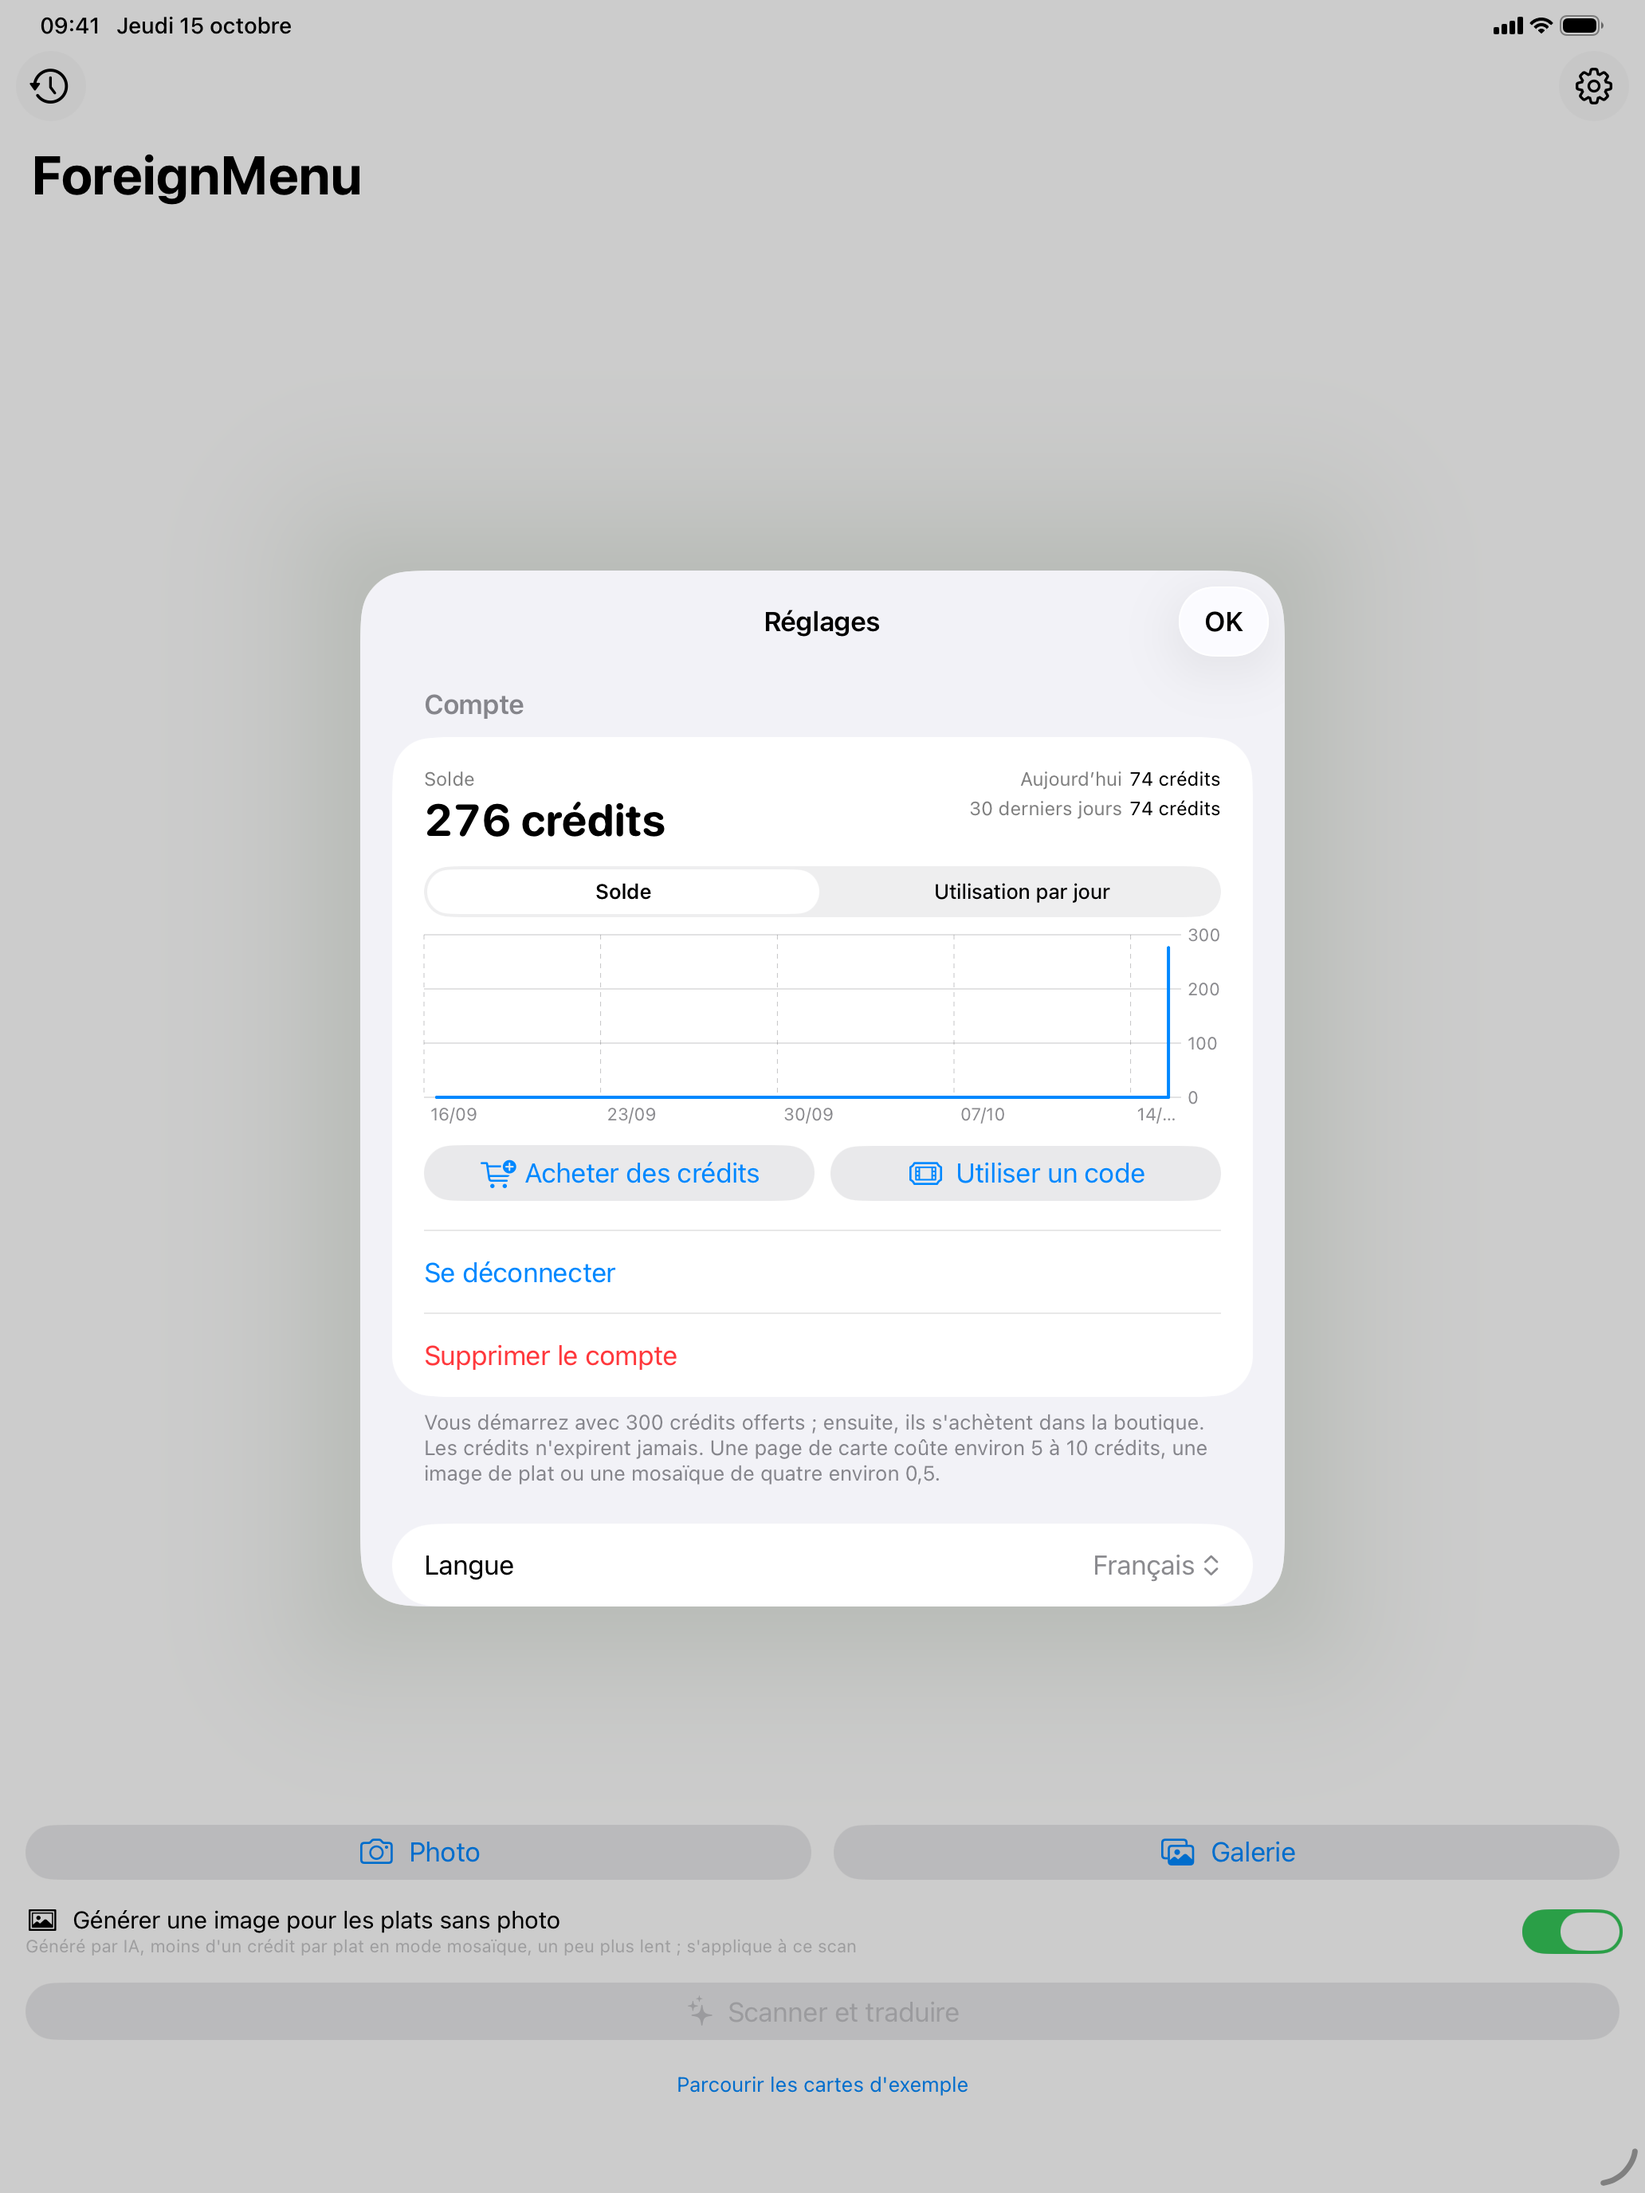
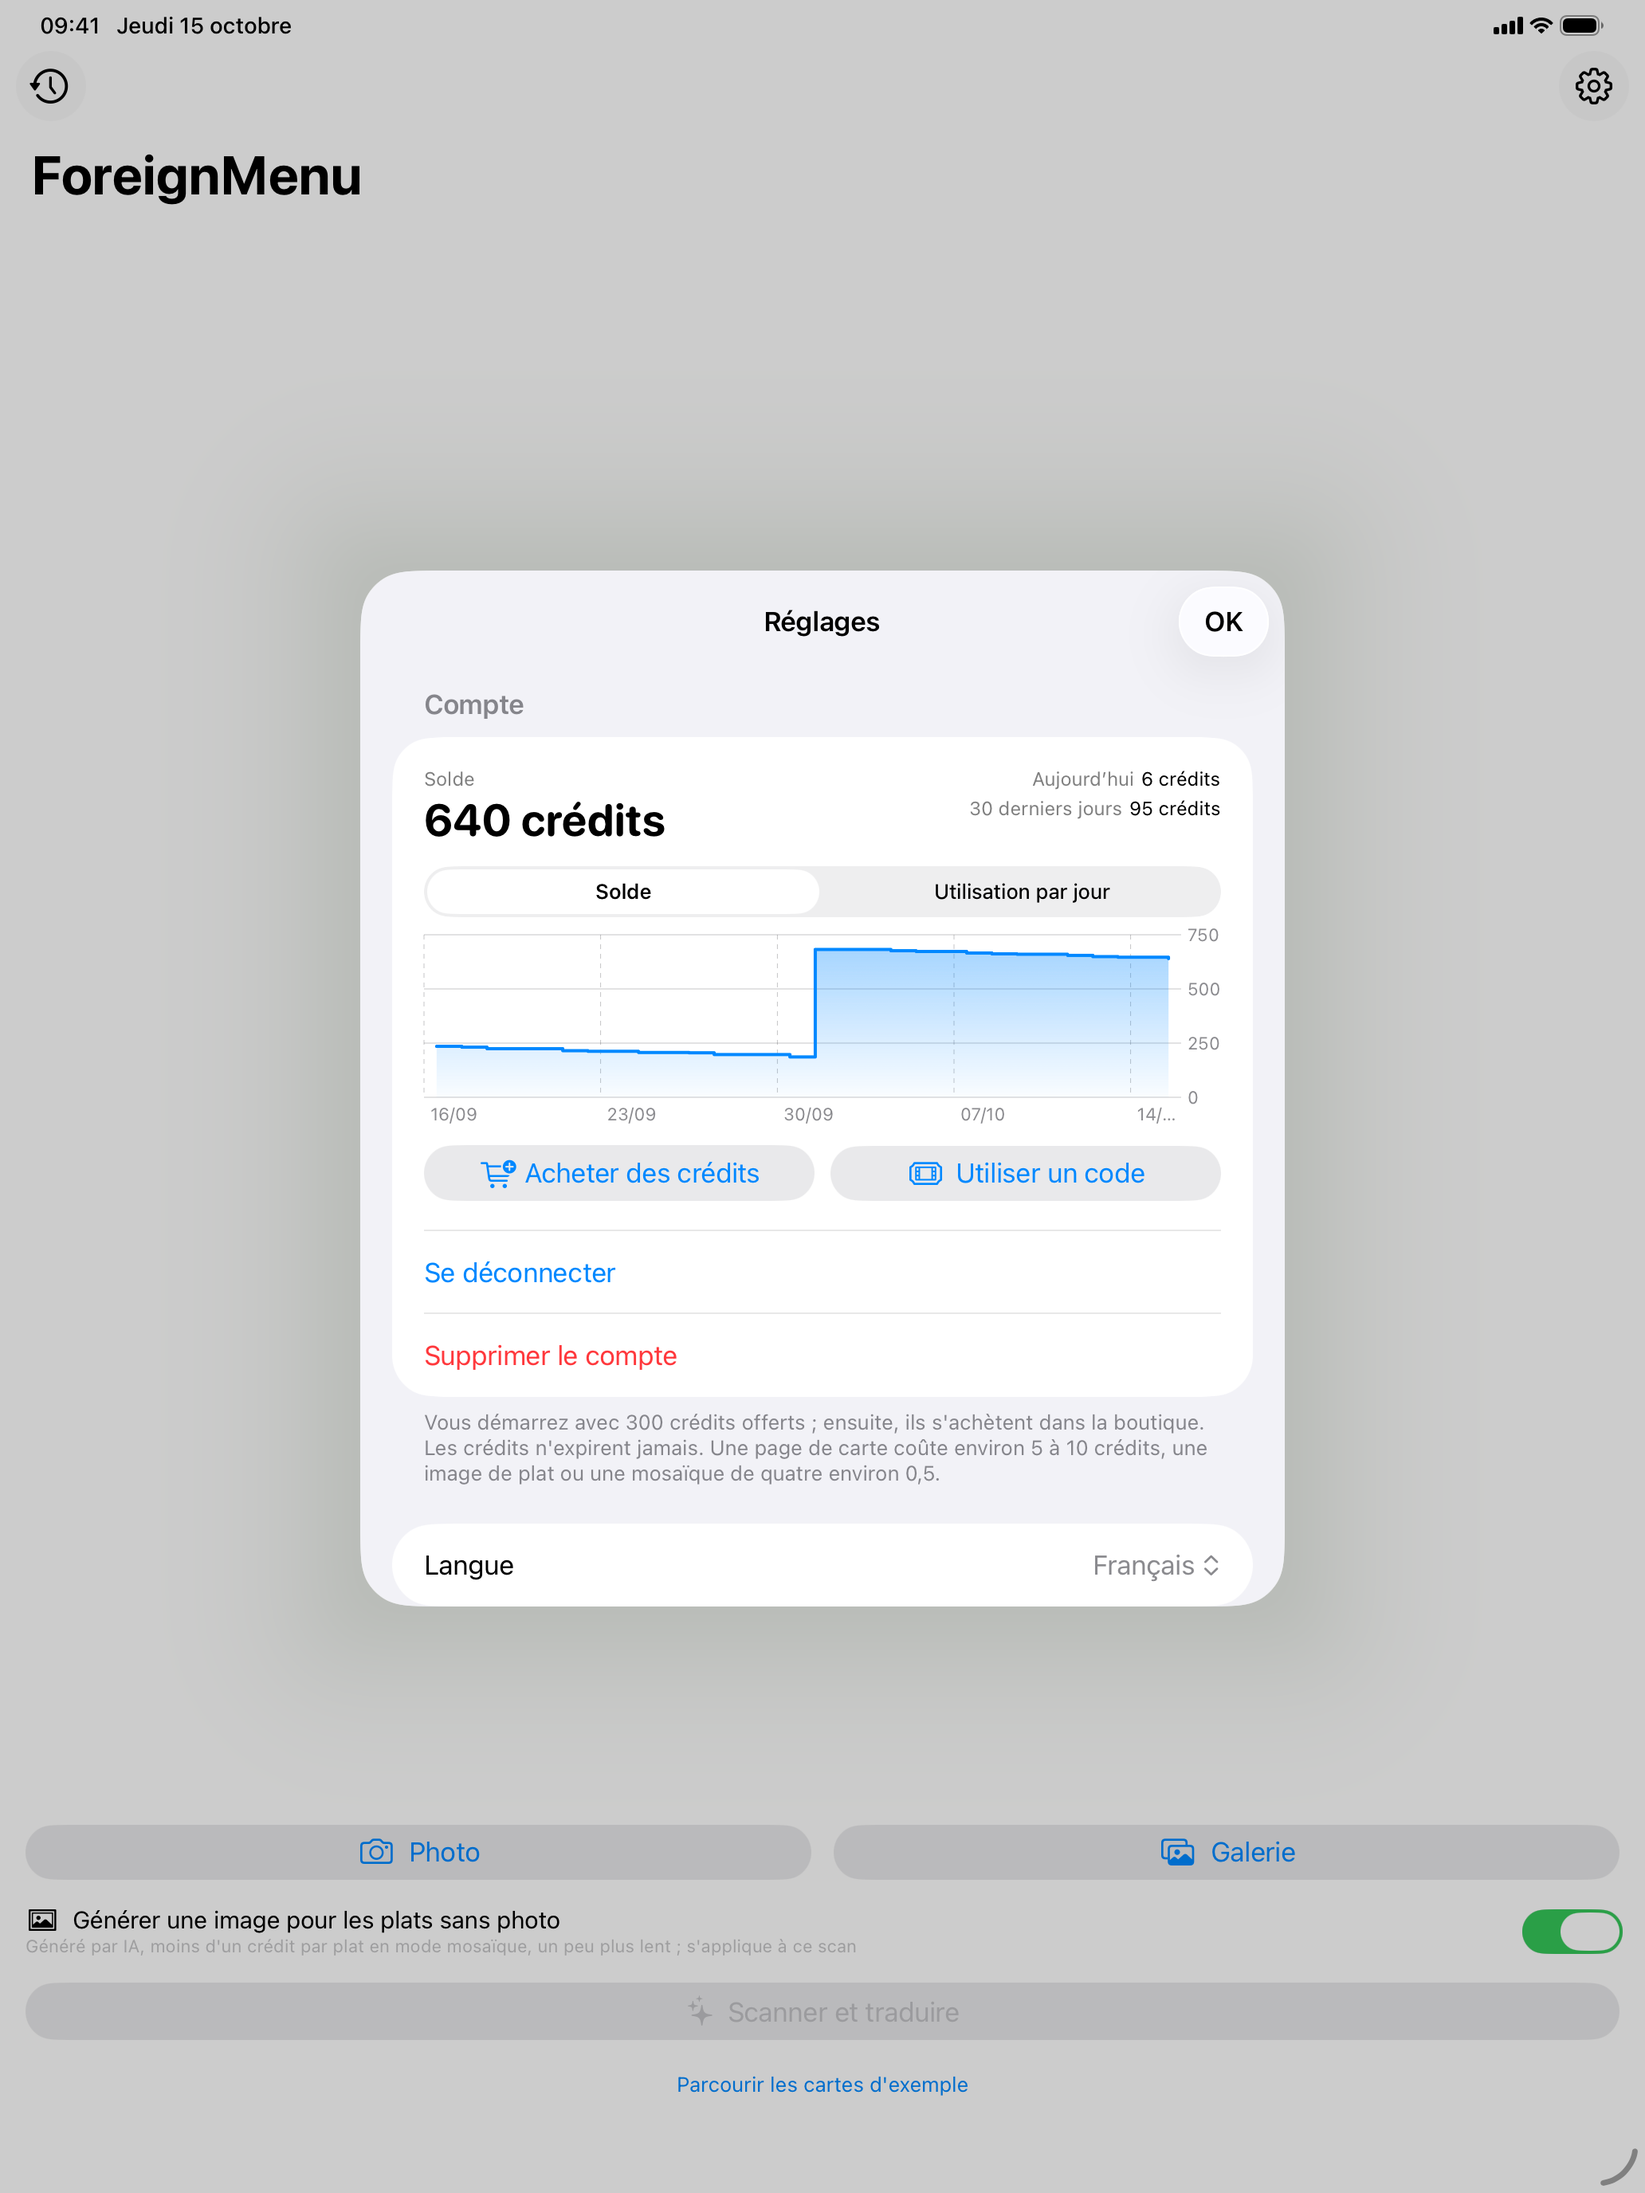
Screenshots: a plausible month of credit history on 04_account
The account shots showed the dev account's own first day — a single jump
to ~300 on the last day and "74 used today". DEBUG -demoUsage feeds
AccountStore a made-up 30 days instead of GET /usage: small daily use
with idle days, one 500-credit purchase mid-month, 6 used today, 95 in
the 30 days, ending at 640. Reshot 04_account for iPhone and iPad in en,
zh-Hans, fr and ko; the script passes -demoUsage from now on.

Claude-Session: https://claude.ai/code/session_018L7Z6QU8EHmx4vNDHa8gjZ

Changed region(s): [[0.2481, 0.4062, 0.7132, 0.5], [0.6822, 0.3438, 0.7132, 0.375], [0.2791, 0.3438, 0.3101, 0.375]]

diff --git a/MenuLens/Sources/Services/AccountStore.swift b/MenuLens/Sources/Services/AccountStore.swift
@@ -72,6 +72,14 @@ final class AccountStore: ObservableObject {
     /// The balance and the 30-day history in one call (`GET /usage`).
     func refreshCredits() async {
         guard isSignedIn else { return }
+        #if DEBUG
+        // `-demoUsage`: a plausible month instead of the dev account's own
+        // (App Store screenshots of Settings → Account).
+        if ProcessInfo.processInfo.arguments.contains("-demoUsage") {
+            applyDemoUsage()
+            return
+        }
+        #endif
         let request = Backend.request("usage", token: sessionToken)
         guard let reply = try? await Backend.send(request),
               let balance = reply["balance"] as? [String: Any],
@@ -129,6 +137,25 @@ final class AccountStore: ObservableObject {
             return (false, error.localizedDescription)
         }
     }
+
+    #if DEBUG
+    /// 30 days ending today: small daily use with idle days, one 500-credit
+    /// purchase mid-month; 6 used today, 95 in the 30 days, ending at 640.
+    private func applyDemoUsage() {
+        let spends = [0, 4, 7, 0, 0, 9, 3, 0, 5, 0, 2, 8, 0, 0, 11, 4, 0, 0, 6, 3, 0, 7, 4, 2, 0, 5, 6, 3, 0, 6]
+        let purchaseDay = 15
+        let calendar = Calendar.current
+        let today = calendar.startOfDay(for: Date())
+        var balance = 640 - 500 + spends.reduce(0, +)
+        usage = spends.enumerated().map { index, spent in
+            let added = index == purchaseDay ? 500 : 0
+            balance += added - spent
+            let date = calendar.date(byAdding: .day, value: index - (spends.count - 1), to: today)!
+            return UsageDay(date: date, spent: spent, added: added, balance: balance)
+        }
+        credits = balance
+    }
+    #endif
 
     /// "2026-10-15" → local midnight, for the chart's day axis.
     private static let dayFormatter: DateFormatter = {

diff --git a/MenuLens/Sources/Views/ContentView.swift b/MenuLens/Sources/Views/ContentView.swift
@@ -90,6 +90,7 @@ struct ContentView: View {
             //   -delayPage <i> <s> hold page i back s seconds (half-arrived result)
             //   -redeem <code>    with -showSettings: open Redeem code and submit it
             //   -demoReceiving    newest multi-page scan, shown with its last page pending
+            //   -demoUsage        a made-up month of credit history (Settings → Account)
             //   -analyzeSample    run the REAL OpenAI call on the demo image,
             //                     then dump result JSON + PDF into Documents
             //   -showConsent      open the third-party AI consent sheet
